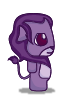
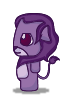
corrección movimiento

diff --git a/código/src/Player.ts b/código/src/Player.ts
@@ -1,4 +1,4 @@
-import p5 from 'p5';
+import p5, { Image } from 'p5';
 import Map from './Map';
 import { PlayerDirection } from './Type';
 
@@ -9,64 +9,62 @@ export default class Player {
   posY: number;
   pcFil: number;
   pcCol: number;
-  image1: any;
-  image2: any;
-  image3: any;
-  image4: any;
+  imageActual!: Image;
+  image1!: Image;
+  image2!: Image;
+  image3!: Image;
+  image4!: Image;
   direction: string;
-
   refMap: Map | null = null;
 
   constructor(fil: number, col: number) {
     this.pcFil = fil;
     this.pcCol = col;
     this.direction = 'DOWN';
-    this.posX = (fil * PLAYERSIZE) + 288; // + 312;
+    this.posX = (fil * PLAYERSIZE) + 288;
     this.posY = (col * PLAYERSIZE);
     this.refMap = null;
-    // this.image1 = p.loadImage('../assests/Player/player1A.png');
-    // this.image2 = p.loadImage('../assests/Player/playerB.png');
-    // this.image3 = p.loadImage('../assests/Player/player1C.png');
-    // this.image4 = p.loadImage('../assests/Player/player1D.png');
   }
 
   show(p: p5) {
-    p.fill(180, 10, 200);
-    p.rect(this.posX, this.posY, PLAYERSIZE);
-    p.rectMode(p.CORNER);
-    // p.imageMode(p.CENTER);
-    // if (this.d === 0) {
-    //   p.image(this.image1, this.posX, this.posY);
-    // } else if (this.d === 1) {
-    //   p.image(this.image2, this.posX, this.posY);
-    // } else if (this.d === 2) {
-    //   p.image(this.image3, this.posX, this.posY);
-    // } else {
-    //   p.image(this.image4, this.posX, this.posY);
-    // }
-    // p.imageMode(p.CORNER);
+    // p.image(this.imageActual, this.posX - 9.5, this.posY - 48);
+    p.imageMode(p.CENTER);
+    if (this.direction === 'DOWN') {
+      p.image(this.image1, this.posX + 24, this.posY);
+    } else if (this.direction === 'UP') {
+      p.image(this.image2, this.posX + 24, this.posY);
+    } else if (this.direction === 'RIGHT') {
+      p.image(this.image3, this.posX + 24, this.posY);
+    } else {
+      p.image(this.image4, this.posX + 24, this.posY);
+    }
+    p.imageMode(p.CORNER);
   }
 
   move(direction: PlayerDirection) {
     switch (direction) {
-      case 'RIGHT':
+      case 'DOWN':
         if (this.refMap?.canMove(this.pcFil, this.pcCol + 1)) {
           this.pcCol += 1;
-        }
-        break;
-      case 'LEFT':
-        if (this.refMap?.canMove(this.pcFil, this.pcCol - 1)) {
-          this.pcCol -= 1;
+          this.imageActual = this.image1;
         }
         break;
       case 'UP':
-        if (this.refMap?.canMove(this.pcFil - 1, this.pcCol)) {
-          this.pcFil -= 1;
+        if (this.refMap?.canMove(this.pcFil, this.pcCol - 1)) {
+          this.pcCol -= 1;
+          this.imageActual = this.image2;
         }
         break;
-      case 'DOWN':
+      case 'LEFT':
+        if (this.refMap?.canMove(this.pcFil - 1, this.pcCol)) {
+          this.pcFil -= 1;
+          this.imageActual = this.image3;
+        }
+        break;
+      case 'RIGHT':
         if (this.refMap?.canMove(this.pcFil + 1, this.pcCol)) {
           this.pcFil += 1;
+          this.imageActual = this.image4;
         }
         break;
       default:
@@ -77,11 +75,39 @@ export default class Player {
   }
 
   truePosition() {
-    this.posX = (this.pcCol * PLAYERSIZE) + 288;
-    this.posY = (this.pcFil * PLAYERSIZE);
+    this.posX = (this.pcFil * PLAYERSIZE) + 288;
+    this.posY = (this.pcCol * PLAYERSIZE);
+  }
+
+  getFil() {
+    return this.pcFil;
+  }
+
+  getCol() {
+    return this.pcCol;
   }
 
   setMap(m:Map) {
     this.refMap = m;
+  }
+
+  setImage(i:Image) {
+    this.imageActual = i;
+  }
+
+  setImage1(i:Image) {
+    this.image1 = i;
+  }
+
+  setImage2(i:Image) {
+    this.image2 = i;
+  }
+
+  setImage3(i:Image) {
+    this.image3 = i;
+  }
+
+  setImage4(i:Image) {
+    this.image4 = i;
   }
 }

diff --git a/código/src/Map.ts b/código/src/Map.ts
@@ -3,7 +3,26 @@ import p5 from 'p5';
 const SIZE = 48;
 
 export default class Map {
+  countPj1Space: number = 0;
+  countPj2Space: number = 0;
   private level1: Array<Array<number>> = [[1, 1, 1, 1, 1, 1, 1, 1, 1, 1, 1, 1, 1, 1, 1, 1, 1, 1, 1],
+    [1, 0, 0, 0, 0, 0, 0, 0, 0, 0, 0, 0, 0, 0, 0, 0, 0, 0, 1],
+    [1, 0, 0, 0, 0, 0, 0, 0, 0, 0, 0, 0, 0, 0, 0, 0, 0, 0, 1],
+    [1, 0, 0, 0, 0, 0, 0, 0, 0, 0, 0, 0, 0, 0, 0, 0, 0, 0, 1],
+    [1, 0, 0, 0, 0, 0, 0, 0, 0, 0, 0, 0, 0, 0, 0, 0, 0, 0, 1],
+    [1, 0, 0, 0, 0, 0, 0, 0, 0, 0, 0, 0, 0, 0, 0, 0, 0, 0, 1],
+    [1, 0, 0, 0, 0, 0, 0, 0, 0, 0, 0, 0, 0, 0, 0, 0, 0, 0, 1],
+    [1, 0, 0, 0, 0, 0, 0, 0, 0, 0, 0, 0, 0, 0, 0, 0, 0, 0, 1],
+    [1, 0, 0, 0, 0, 0, 0, 0, 0, 0, 0, 0, 0, 0, 0, 0, 0, 0, 1],
+    [1, 0, 0, 0, 0, 0, 0, 0, 0, 0, 0, 0, 0, 0, 0, 0, 0, 0, 1],
+    [1, 0, 0, 1, 1, 1, 0, 0, 0, 0, 0, 0, 0, 0, 0, 0, 0, 0, 1],
+    [1, 0, 0, 1, 1, 1, 0, 0, 0, 0, 0, 0, 0, 0, 0, 0, 0, 0, 1],
+    [1, 0, 0, 1, 1, 1, 0, 0, 0, 0, 0, 0, 0, 0, 0, 0, 0, 0, 1],
+    [1, 0, 0, 1, 1, 1, 0, 0, 0, 0, 0, 0, 0, 0, 0, 0, 0, 0, 1],
+    [1, 1, 1, 1, 1, 1, 1, 1, 1, 1, 1, 1, 1, 1, 1, 1, 1, 1, 1],
+  ];
+
+  private level2: Array<Array<number>> = [[1, 1, 1, 1, 1, 1, 1, 1, 1, 1, 1, 1, 1, 1, 1, 1, 1, 1, 1],
     [1, 0, 0, 0, 0, 0, 0, 0, 0, 0, 0, 0, 0, 0, 0, 0, 0, 0, 1],
     [1, 0, 0, 0, 0, 0, 0, 0, 0, 0, 0, 0, 0, 0, 0, 0, 0, 0, 1],
     [1, 0, 0, 0, 0, 0, 0, 0, 0, 0, 0, 0, 0, 0, 0, 0, 0, 0, 1],
@@ -29,6 +48,21 @@ export default class Map {
           p.fill(255);
         }
         p.rect((j * SIZE) + 288, (i * SIZE), SIZE, SIZE);
+      }
+    }
+  }
+
+  showLevel2(p:p5, fil:number, col:number, pj:number) {
+    for (let i = 0; i < 15; i += 1) {
+      for (let j = 0; j < 19; j += 1) {
+        if (this.level1[fil][col] === this.level1[i][j] && pj === 1) {
+          p.fill(151, 113, 169);
+          this.countPj1Space += 1;
+        }
+        if (this.level1[fil][col] === this.level1[i][j] && pj === 2) {
+          p.fill(99, 177, 128);
+          this.countPj2Space += 1;
+        }
       }
     }
   }

diff --git a/código/src/Game.ts b/código/src/Game.ts
@@ -1,14 +1,47 @@
 /* eslint-disable no-param-reassign */
 import './style.css';
-import p5 from 'p5';
+import p5, { Image } from 'p5';
 import Player from './Player';
 import Map from './Map';
 
 const LEVEL1 = new Map();
-const PLAYER1 = new Player(1, 1);
-const PLAYER2 = new Player(17, 1);
+const PLAYER1 = new Player(3, 1);
+const PLAYER2 = new Player(3, 1);
+
+let gui!: Image;
+let viewD1pj!: Image;
+let viewU1pj!: Image;
+let viewR1pj!: Image;
+let viewL1pj!: Image;
+
+let viewD2pj!: Image;
+let viewU2pj!: Image;
+let viewR2pj!: Image;
+let viewL2pj!: Image;
 
 const sketch = (p: p5) => {
+  p.preload = () => {
+    gui = p.loadImage('../assests/GUI.png');
+    viewD1pj = p.loadImage('../assests/Player/player1A.png');
+    PLAYER1.setImage1(viewD1pj);
+    PLAYER1.setImage(viewD1pj);
+    viewU1pj = p.loadImage('../assests/Player/player1B.png');
+    PLAYER1.setImage2(viewU1pj);
+    viewR1pj = p.loadImage('../assests/Player/player1C.png');
+    PLAYER1.setImage3(viewR1pj);
+    viewL1pj = p.loadImage('../assests/Player/player1D.png');
+    PLAYER1.setImage4(viewL1pj);
+
+    viewD2pj = p.loadImage('../assests/Player/player2A.png');
+    PLAYER2.setImage1(viewD2pj);
+    viewU2pj = p.loadImage('../assests/Player/player2B.png');
+    PLAYER2.setImage2(viewU2pj);
+    viewR2pj = p.loadImage('../assests/Player/player2C.png');
+    PLAYER2.setImage3(viewR2pj);
+    viewL2pj = p.loadImage('../assests/Player/player2D.png');
+    PLAYER2.setImage4(viewL2pj);
+  };
+
   p.setup = () => {
     p.createCanvas(1200, 720);
     PLAYER1.setMap(LEVEL1);
@@ -20,6 +53,9 @@ const sketch = (p: p5) => {
     LEVEL1.show(p);
     PLAYER1.show(p);
     PLAYER2.show(p);
+    LEVEL1.showLevel2(p, PLAYER1.getFil(), PLAYER1.getCol(), 1);
+    LEVEL1.showLevel2(p, PLAYER2.getFil(), PLAYER2.getCol(), 2);
+    p.image(gui, 0, 0);
   };
 
   p.keyPressed = () => {

diff --git a/código/src/Enemy.ts b/código/src/Enemy.ts
@@ -1,0 +1,7 @@
+import p5 from 'p5';
+
+export default class Enemy {
+  constructor(p:p5) {
+    p.rect(334, 33, 33);
+  }
+}
